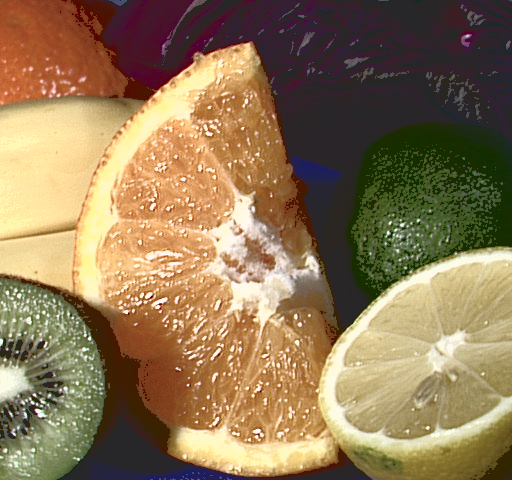
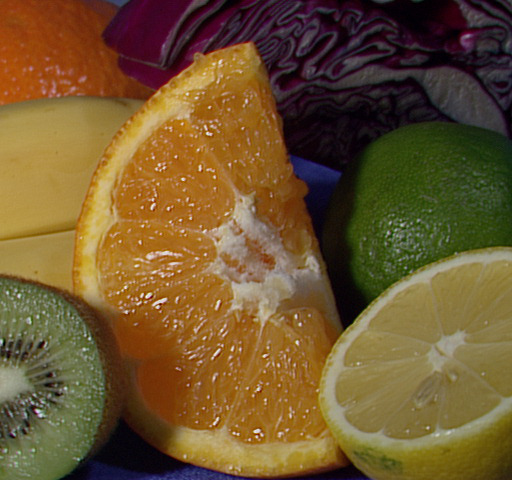
second commit

diff --git a/project1/program2.py b/project1/program2.py
@@ -46,9 +46,10 @@ for i in range(H1, H2):
 step = (Lmax - Lmin) / 100
 h = np.zeros((101,), dtype=int)
 f = np.zeros((101,), dtype=int)
+mapping = np.zeros((101,), dtype=int)
 
-for i in range(0, rows):
-    for j in range(0, cols):
+for i in range(H1, H2):
+    for j in range(W1, W2):
         pixel = XYZ2Luv(RGB2XYZ(invGamma(limit(scaleDown(inputImage[i, j])))))
         L, u, v = pixel[0], pixel[1], pixel[2]
         val = 0
@@ -70,27 +71,26 @@ for i in range(101):
     s += h[i]
     f[i] = s
 
-n, k = rows * cols, 101
+n, k = (H2 - H1) * (W2 - W1), 101
+for i in range(101):
+    if i == 0:
+        mapping[i] = k * f[i] / (2 * n)
+    else:
+        mapping[i] = k * (f[i] + f[i - 1]) / (2 * n)
+
+
 for i in range(0, rows):
     for j in range(0, cols):
         pixel = XYZ2Luv(RGB2XYZ(invGamma(limit(scaleDown(inputImage[i, j])))))
         L, u, v = pixel[0], pixel[1], pixel[2]
-        val = 0
+        L_prime = 0
         if L > Lmax:
-            h[100] += 1
-            val = 100
+            L_prime = 100
         elif L < Lmin:
-            h[0] += 1
-            val = 0
+            L_prime = 0
         else:
-            if step > 0:
-                val = int(round((L - Lmin) / step))
-            else:
-                val = int(L)
-        if val == 0:
-            L_prime = k * f[val] / (2 * n)
-        else:
-            L_prime = k * (f[val - 1] + f[val]) / (2 * n) 
+            k = int(round(L))
+            L_prime = mapping[k]
         newPixel = np.array([L_prime, u, v])
         r, g, b = scaleUp(limit(gamma(XYZ2RGB(Luv2XYZ(newPixel)))))
         outputImage[i, j] = b, g, r
